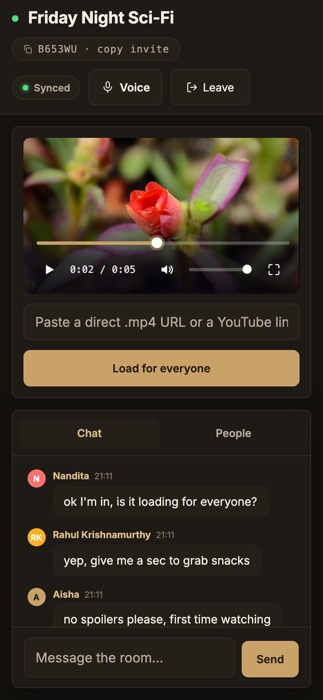
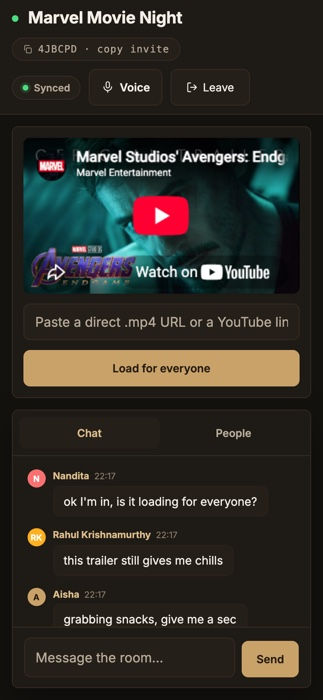
Retake room and phone screenshots with the trailer demo
Matches the landing page, which now loads the Avengers: Endgame trailer.
Updates the room screenshot's alt text to describe what it shows.

diff --git a/README.md b/README.md
@@ -17,8 +17,8 @@ others. Rooms also have chat, presence and peer-to-peer voice.
 window to watch from two places at once. It runs on a free Render instance, so
 the first request after a quiet spell takes ~50s to wake up.
 
-![The Watch Party room: synced video player with custom controls on the left,
-participant list and room chat on the right, and a Synced indicator in the
+![The Watch Party room playing the Avengers: Endgame trailer, with the
+participant list and room chat on the right and a Synced indicator in the
 header.](docs/screenshot-room.jpg)
 
 **Stack:** React 19 · Node.js / Express · Socket.IO · WebRTC · SQLite (zero
